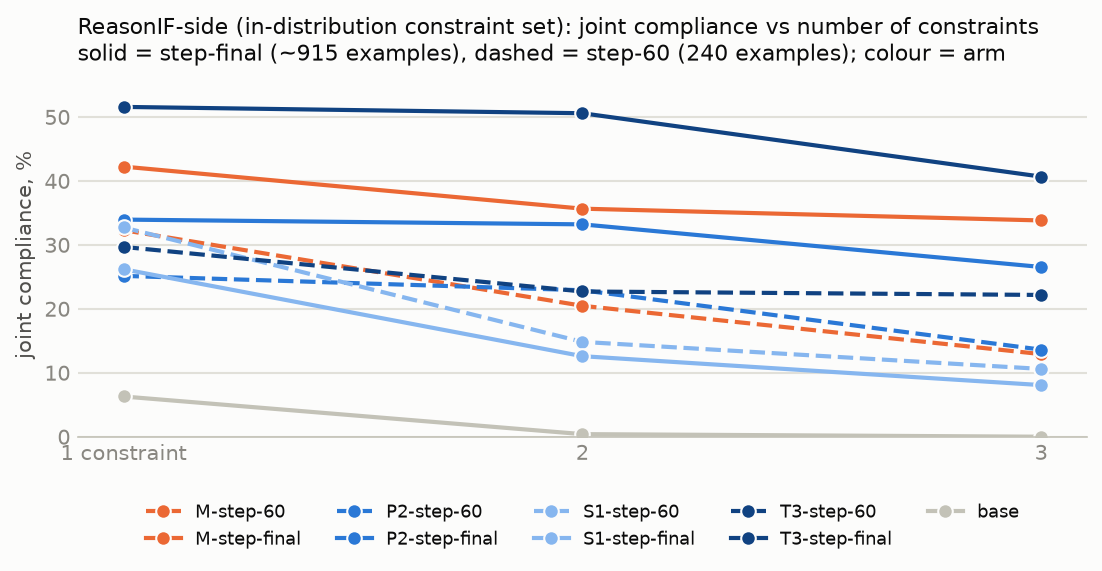
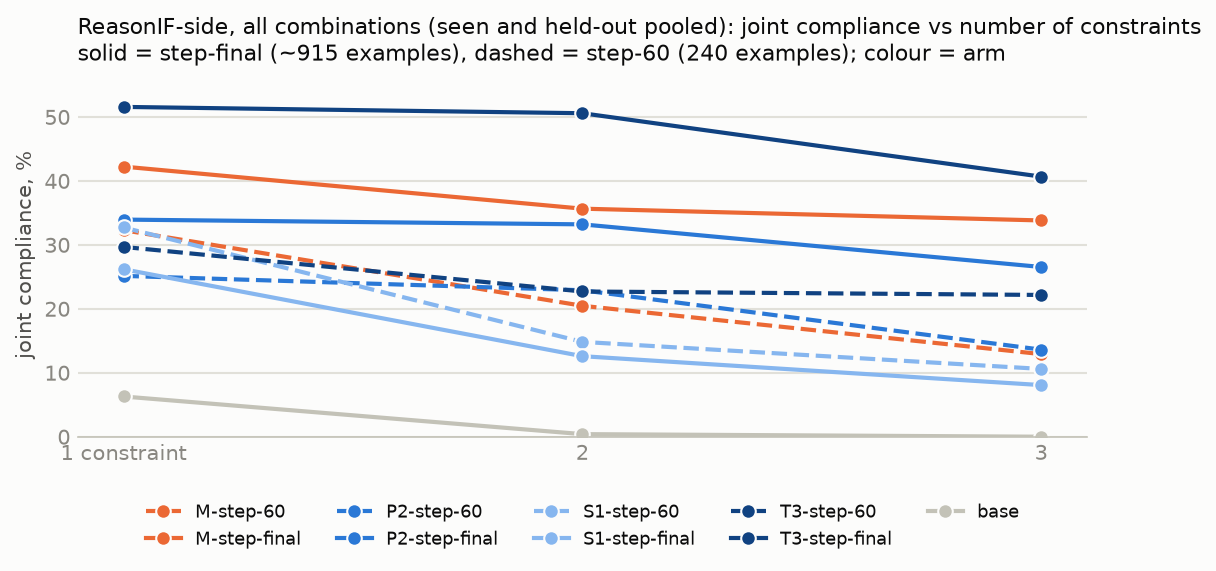
figure title: all combinations, seen and held-out pooled

diff --git a/scripts/report_multi.py b/scripts/report_multi.py
@@ -22,7 +22,7 @@ def rate(l, suite, level, held=None, ok_only=True):
     v = [g["joint"] for g in gs if g["joint"] is not None]; return (mean(v), len(v))
 md = ["# Multi-constraint SFT: results\n", f"*Generated by `scripts/report_multi.py` from {len(labels)} evaluated checkpoint(s): {', '.join(labels)}.*\n"]
 P = md.append
-for suite, name in (("reasonif_multi", "ReasonIF-side (in-distribution constraint set)"), ("cotcontrol_multi", "CoTControl-side (transfer)")):
+for suite, name in (("reasonif_multi", "ReasonIF-side, all combinations (seen and held-out pooled)"), ("cotcontrol_multi", "CoTControl-side (transfer)")):
     P(f"\n## {name}: joint binary compliance (all constraints satisfied), % of gradeable rollouts\n")
     cols = ["singles", "pairs (seen)", "pairs (held-out)", "triples (seen)", "triples (held-out)"] if suite == "reasonif_multi" else ["singles", "pairs", "triples"]
     P("| checkpoint | " + " | ".join(cols) + " | accuracy | truncated |"); P("|---|" + "---:|" * (len(cols) + 2))

diff --git a/MULTI_CONSTRAINT_RESULTS.md b/MULTI_CONSTRAINT_RESULTS.md
@@ -3,7 +3,7 @@
 *Generated by `scripts/report_multi.py` from 9 evaluated checkpoint(s): M-step-60, M-step-final, P2-step-60, P2-step-final, S1-step-60, S1-step-final, T3-step-60, T3-step-final, base.*
 
 
-## ReasonIF-side (in-distribution constraint set): joint binary compliance (all constraints satisfied), % of gradeable rollouts
+## ReasonIF-side, all combinations (seen and held-out pooled): joint binary compliance (all constraints satisfied), % of gradeable rollouts
 
 | checkpoint | singles | pairs (seen) | pairs (held-out) | triples (seen) | triples (held-out) | accuracy | truncated |
 |---|---:|---:|---:|---:|---:|---:|---:|
